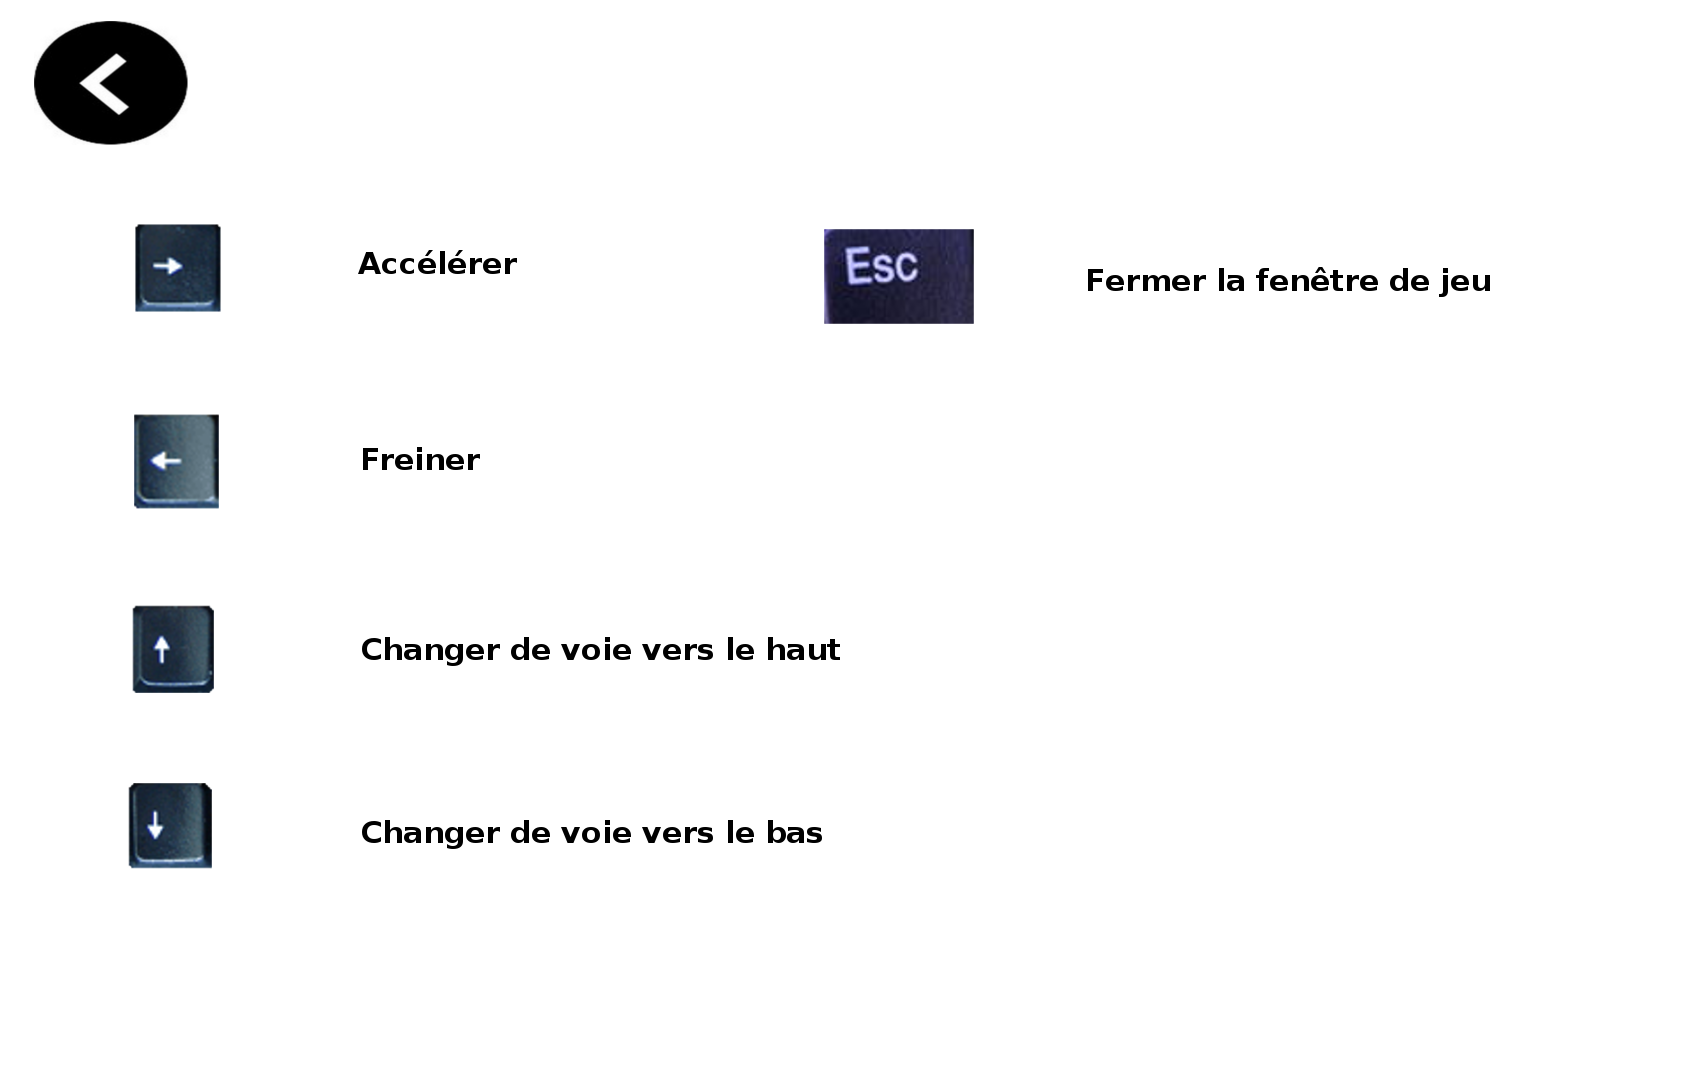
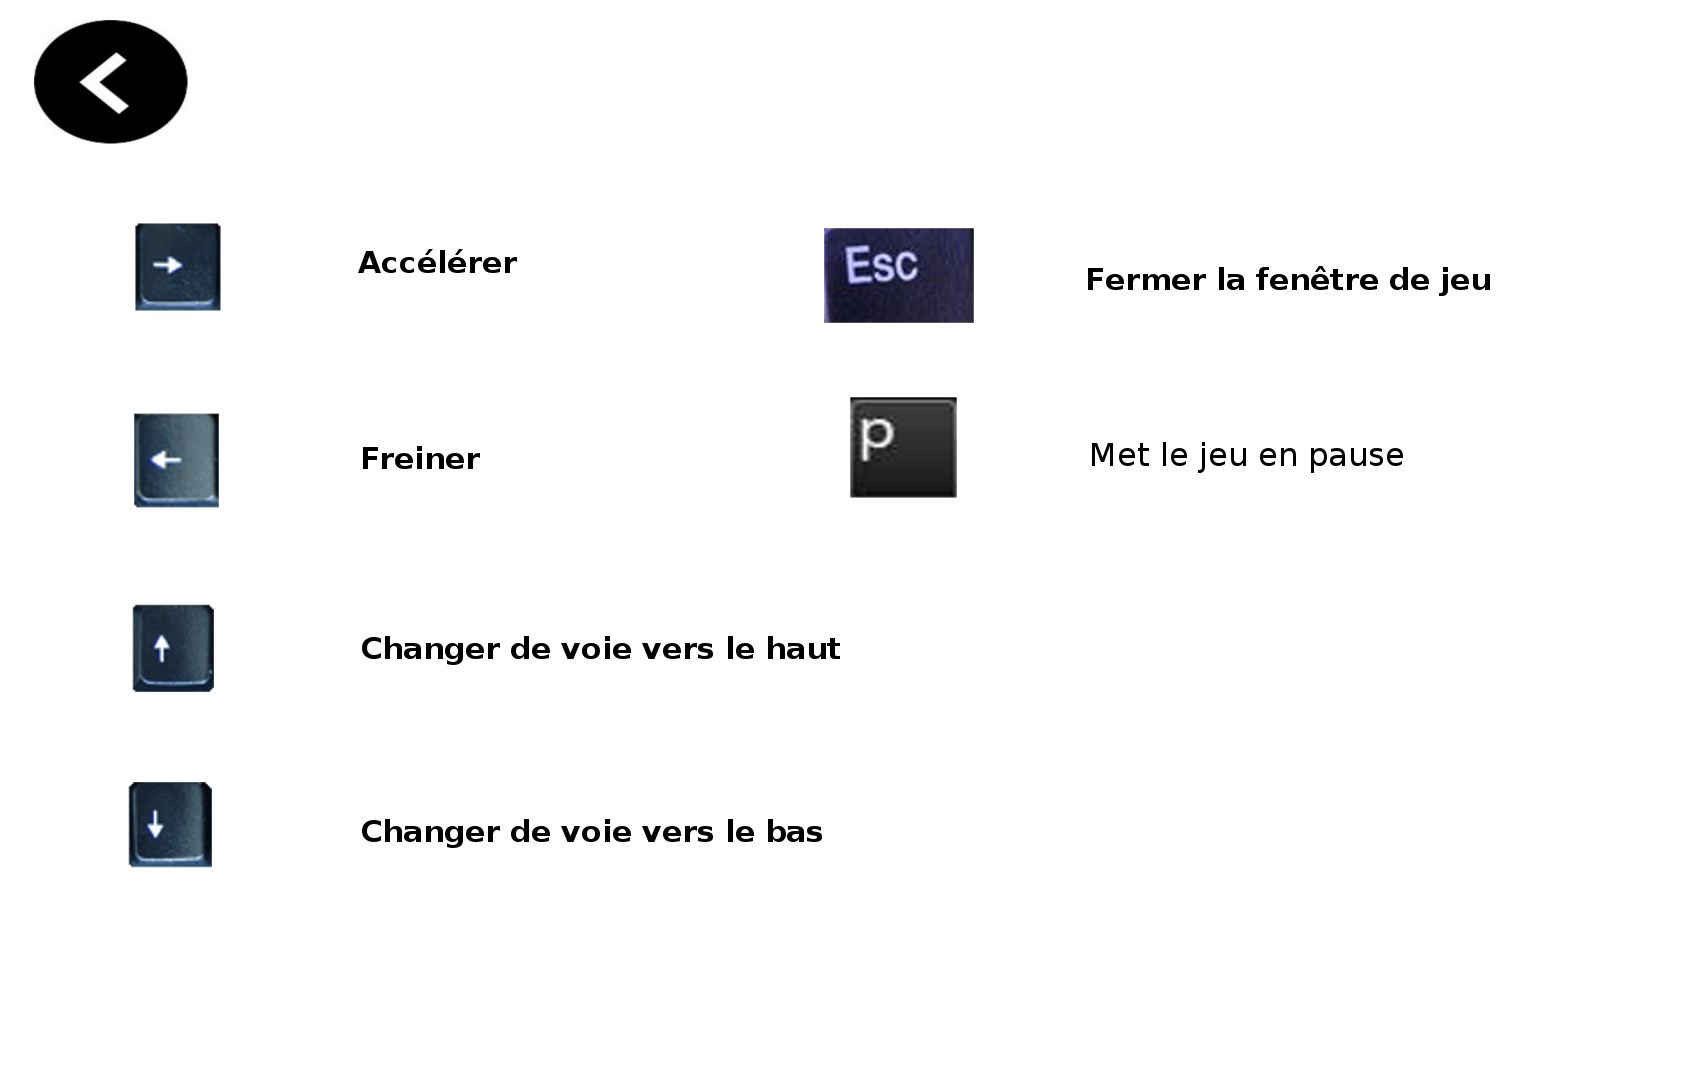
graphics update, upgraded navigation

diff --git a/src/input.c b/src/input.c
@@ -38,6 +38,25 @@ void UpdateEvents(Input* in)
 }
 
 
+void pause() {
+    Input in;    
+    unsigned int frameLimit = SDL_GetTicks() + 30;
+    while(in.key[SDLK_p] != 1) {
+        memset(&in,0,sizeof(in));
+        UpdateEvents(&in);
+
+        if(in.key[SDLK_ESCAPE] || in.quit)
+        {
+            printf("quitting game\n");
+            SDL_Quit();
+            exit(0);
+        }
+        delay(frameLimit);
+        frameLimit = SDL_GetTicks() + 30;
+    }
+}
+    
+
 //Gère les intéractions du joueur avec le jeu (navigation dans le menu, poser tourelle, tirer, ecrire son nom...)
 void getInput()
 {
@@ -47,9 +66,18 @@ void getInput()
 
     if(in.key[SDLK_ESCAPE] || in.quit)
     {
-        printf("quitting game\n");
-	    SDL_Quit();
-	    exit(0);
+        if(Game.stade == 3) {
+            Game.stade=0;
+            init("Road rager");
+        } else {
+            printf("quitting game\n");
+            SDL_Quit();
+            exit(0);
+        }
+    }
+
+    if(in.key[SDLK_p] && (Game.stade == 1 || Game.stade == 3)) {
+        pause();
     }
 
     int moux;
@@ -278,16 +306,12 @@ void getInput()
         } else if(in.key[SDLK_LEFT]  && Game.Player.speed > 40) {
                 Game.Player.speed -=4; 
         }
-    } else if(Game.stade==2){
-        if(in.mousebuttons[SDL_BUTTON_LEFT] && moux >650 && mouy >710  && moux < 1050 && mouy < 800) { //Position du bouton rejouer
+    }else if(Game.stade ==4){
+        if(in.mousebuttons[SDL_BUTTON_LEFT] && moux >40 && mouy >20  && moux < 180 && mouy < 150) { //Position du bouton retour
             Game.stade=0;
             init("Road rager");
         }
-    } else if(Game.stade ==4){
-        if(in.mousebuttons[SDL_BUTTON_LEFT] && moux >40 && mouy >20  && moux < 180 && mouy < 150) { //Position du bouton retour
-            Game.stade=0;
-        }
     }
 }
-    
+
 

diff --git a/src/graphics.c b/src/graphics.c
@@ -266,21 +266,21 @@ void drawText(char *text, int x, int y, TTF_Font *textFont, int r, int g, int b)
 void drawInterface() {    // Affichage de l'interface d'information sur la carte
 	char string[20] ;
         
-    if(Game.stade == 1) {
+    if(Game.stade == 1 || Game.stade == 3) {
         sprintf(string,"%d", Game.Player.speed);
         drawText(string, 180, 80, Game.textFont2,0,0,0);
 	
-	    sprintf(string,"%d", Game.bestScore);
+	    /*sprintf(string,"%d", Game.bestScore);
         drawText("Best Score: ", 480, 40, Game.textFont2,196,154,108);
-        drawText(string, 900, 40, Game.textFont2,196,154,108);
+        drawText(string, 900, 40, Game.textFont2,196,154,108);*/
         
         sprintf(string,"%d", Game.score);
         drawText("Your Score: ", 480, 75, Game.textFont2,196,154,108);
         drawText(string, 900, 75, Game.textFont2,196,154,108);
 
-        sprintf(string,"%d", Game.nbActiveCars);
+        /*sprintf(string,"%d", Game.nbActiveCars);
         drawText("NB cars active: ", 1400, 90, Game.textFont,196,154,108);
-        drawText(string, 1600, 90, Game.textFont,196,154,108);
+        drawText(string, 1600, 90, Game.textFont,196,154,108);*/
     } else if(Game.stade == 2) {
 
     }
@@ -349,6 +349,7 @@ void updateScreen() // Actualise l'affichage de la fenêtre en fonction de l'ét
         addCars();        
         moveTraffic();
         doScore();
+        doBestScore();
 
         break;
 
